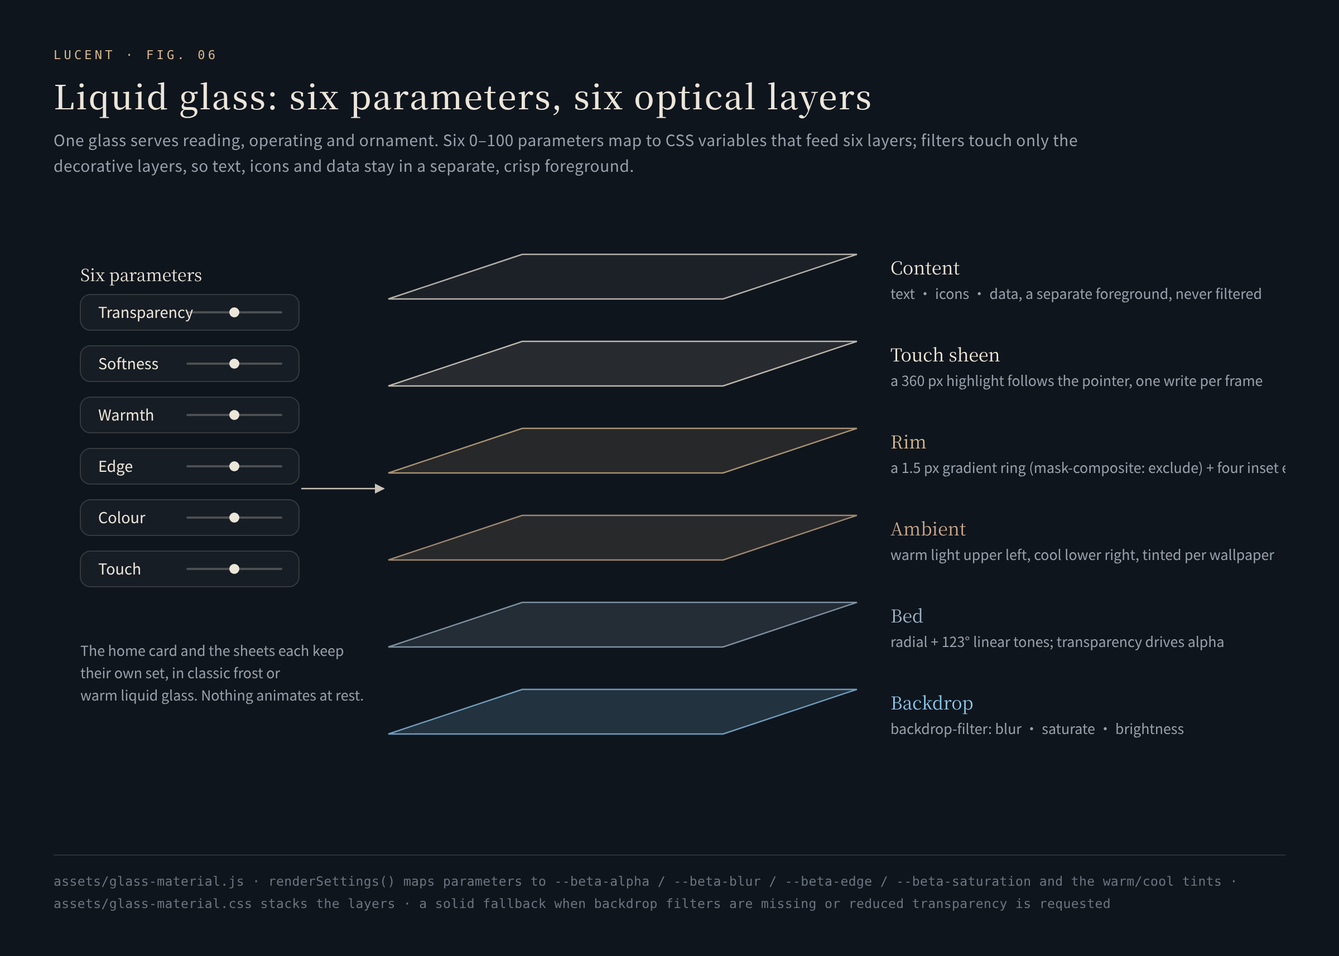
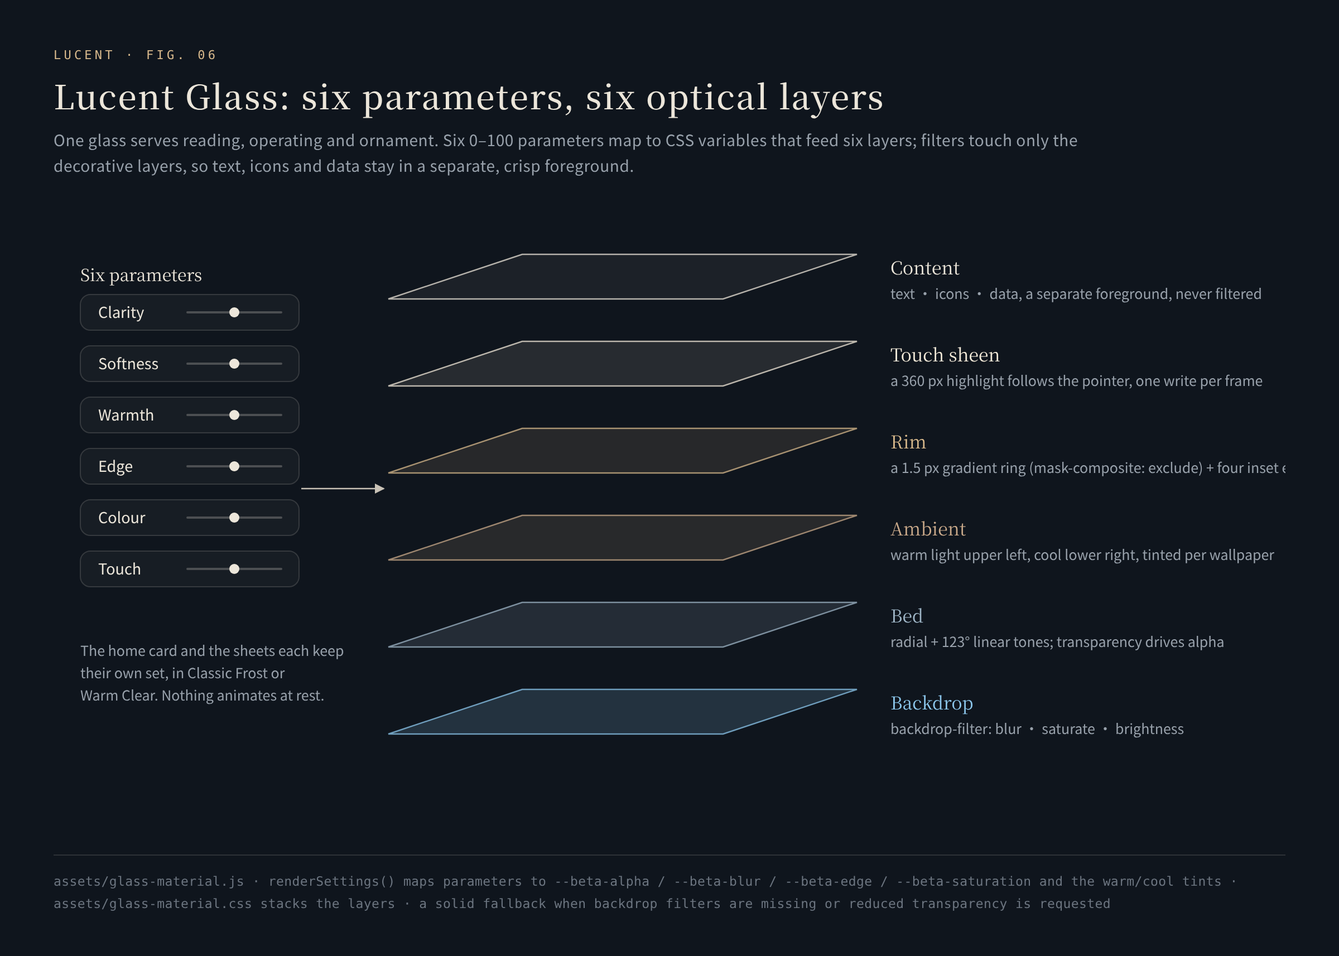
Docs: map the architecture and long presses; new captures, share card
- Fig 00, the product architecture: five layers from the screen down to
  the pixel (context, surface, systems, mechanisms, pixels), with
  control and trust running across them.
- Fig 08, the long-press map: every second-layer entry marked on the
  real interface.
- Glass figure uses the panel's own parameter names; Fig 04 and the
  architecture map call Random's beams lasers, as the code does.
- Two new rendered captures: focus mode, and the endless simulated
  launch (first shot flies back, then held-Enter bursts).
- The social card carries the new line, 由此出发，为光停留 / Launch from here.
  Stay for the light., and is now reproducible (scripts/og.mjs).

Changed region(s): [[0.0625, 0.0928, 0.6562, 0.1237], [0.0625, 0.6803, 0.25, 0.7421], [0.0625, 0.3092, 0.125, 0.3401]]

diff --git a/scripts/figures/figures.html b/scripts/figures/figures.html
@@ -209,9 +209,9 @@ const figures = {
   },
 
   speeds() {
-    const stage = header("04", t("电流的速度从哪里来", "Where the current's speed comes from"),
-      t("Random 开启后，蓝白电流沿卡片之间的通道奔跑。每一束的速度独立抽样：以 4.8.3 版为基准的截断正态分布 N(0.70, 0.10²)，超出 ±3σ 重抽。抽的是速度而不是时长，所以快慢在视觉上是对称的。",
-        "With Random on, blue-white current runs through the channels between cards. Each pulse samples its own speed from a normal distribution N(0.70, 0.10²) relative to version 4.8.3, redrawn beyond ±3σ. Speed, not duration, is sampled, so fast and slow feel symmetric."));
+    const stage = header("04", t("激光的速度从哪里来", "Where each laser's speed comes from"),
+      t("Random 开启后，蓝白激光沿卡片之间的通道奔跑。每一束的速度独立抽样：以 4.8.3 版为基准的截断正态分布 N(0.70, 0.10²)，超出 ±3σ 重抽。抽的是速度而不是时长，所以快慢在视觉上是对称的。",
+        "With Random on, blue-white lasers run through the channels between cards. Each pulse samples its own speed from a normal distribution N(0.70, 0.10²) relative to version 4.8.3, redrawn beyond ±3σ. Speed, not duration, is sampled, so fast and slow feel symmetric."));
     const width = 1104, height = 400, ctx = canvas(stage, width, height);
     const left = 70, right = width - 30, top = 30, bottom = height - 56;
     const x = v => left + (v - .4) / .6 * (right - left), pdf = v => Math.exp(-.5 * Math.pow((v - .7) / .1, 2));
@@ -304,7 +304,7 @@ Object.assign(figures, {
   },
 
   glass() {
-    const stage = header("06", t("通透玻璃：六个参数，六层光学", "Liquid glass: six parameters, six optical layers"),
+    const stage = header("06", t("通透玻璃：六个参数，六层光学", "Lucent Glass: six parameters, six optical layers"),
       t("同一种玻璃承担阅读、操作和装饰三种用途。六个 0–100 的参数先映射成 CSS 变量，再分配到六层；滤镜只作用在装饰层，文字、图标与数据始终在独立前景，清晰度不受影响。",
         "One glass serves reading, operating and ornament. Six 0–100 parameters map to CSS variables that feed six layers; filters touch only the decorative layers, so text, icons and data stay in a separate, crisp foreground."));
     const width = 1104, height = 560, g = svg(stage, width, height);
@@ -329,7 +329,7 @@ Object.assign(figures, {
       label(g, x + 450, y + 18, name, { size: 16, serif: true, fill: color });
       label(g, x + 450, y + 40, desc, { size: 12.5, fill: "#98a1ab" });
     });
-    const params = t(["透明度", "柔化", "冷暖", "边缘", "色彩", "触感"], ["Transparency", "Softness", "Warmth", "Edge", "Colour", "Touch"]);
+    const params = t(["通透度", "玻璃柔焦", "暖意", "边缘光泽", "环境色彩", "触光强度"], ["Clarity", "Softness", "Warmth", "Edge", "Colour", "Touch"]);
     label(g, 24, 64, t("六个参数", "Six parameters"), { size: 15, serif: true });
     params.forEach((p, i) => {
       const y = 96 + i * 46;
@@ -340,7 +340,7 @@ Object.assign(figures, {
     });
     el(g, "path", { d: "M222 250 C 262 250, 262 250, 296 250", fill: "none", stroke: "#c9c2b6", "stroke-width": 1.3, "marker-end": "url(#arrow)" });
     multiline(g, 24, 400, t(["主卡片与弹窗各自一套参数，", "可选「经典磨砂」或「暖光液态清璃」。", "静止时没有任何常驻动画循环。"],
-      ["The home card and the sheets each keep", "their own set, in classic frost or", "warm liquid glass. Nothing animates at rest."]), { size: 12.5, fill: "#98a1ab", lh: 20 });
+      ["The home card and the sheets each keep", "their own set, in Classic Frost or", "Warm Clear. Nothing animates at rest."]), { size: 12.5, fill: "#98a1ab", lh: 20 });
     footer(t("assets/glass-material.js · renderSettings() 把参数映射为 --beta-alpha / --beta-blur / --beta-edge / --beta-saturation 与冷暖色 · assets/glass-material.css 负责分层 · 不支持背景滤镜或「减少透明度」时退回到实底",
              "assets/glass-material.js · renderSettings() maps parameters to --beta-alpha / --beta-blur / --beta-edge / --beta-saturation and the warm/cool tints · assets/glass-material.css stacks the layers · a solid fallback when backdrop filters are missing or reduced transparency is requested"));
   },
@@ -413,6 +413,170 @@ Object.assign(figures, {
     ]), { size: 12.5, fill: "#ece6da", lh: 22 });
     footer(t("assets/stats-store.js · assets/field-store.js · 备份文本 AIRAPC1：deflate-raw 压缩 → base64url → CRC-32，复制前按同一格式回读自检，超长时按段切分",
              "assets/stats-store.js · assets/field-store.js · the AIRAPC1 backup text is deflate-raw → base64url → CRC-32, read back in the same format before copying, and segmented when long"));
+  }
+});
+
+// ---- architecture & gesture map ----
+function hexA(hex, a) { const n = parseInt(hex.slice(1), 16); return `rgba(${n >> 16 & 255},${n >> 8 & 255},${n & 255},${a})`; }
+function box(g, x, y, w, h, color, title, latin, lines, opts = {}) {
+  el(g, "rect", { x, y, width: w, height: h, rx: 13, fill: hexA(color, opts.fill || .055), stroke: hexA(color, opts.stroke || .5), "stroke-width": 1.2 });
+  const t0 = label(g, x + 16, y + 28, title, { size: opts.titleSize || 16, serif: true, fill: opts.titleFill || "#ece6da" });
+  if (latin) label(g, x + 16 + t0.getComputedTextLength() + 10, y + 28, latin, { size: 11, mono: true, fill: color, spacing: .6 });
+  multiline(g, x + 16, y + (opts.first || 52), lines, { size: opts.size || 12.5, fill: opts.lineFill || "#a9b1ba", lh: opts.lh || 19 });
+}
+function chip(g, x, y, w, text, color) {
+  el(g, "rect", { x, y, width: w, height: 34, rx: 17, fill: hexA(color, .07), stroke: hexA(color, .42), "stroke-width": 1 });
+  label(g, x + w / 2, y + 22, text, { size: 12.5, fill: "#e6dccb", anchor: "middle" });
+}
+
+Object.assign(figures, {
+  architecture() {
+    const stage = header("00", t("产品架构：从一块屏幕，到一个像素", "Architecture: from one screen to one pixel"),
+      t("自上而下，由宏观到微观：它在哪里运行，表面摆着什么，底下运转着哪四套系统，系统靠什么机制成立，以及最后落到像素的那些决定。最下面一行贯穿所有层级：把每个旋钮交给使用者的主权，和让一切经得起长期使用的工程纪律。",
+        "Top to bottom, macro to micro: where it runs, what sits on the surface, the four systems underneath, the mechanisms that make them work, and the decisions that finally land on a pixel. The bottom row cuts across every layer: the controls handed to the person who uses it, and the engineering discipline that keeps it trustworthy over years."));
+    const W0 = 1104, LX = 152, CW = W0 - LX, g = svg(stage, W0, 812);
+    const ice = "#8cc7ec", blue = "#a3b8ff", plat = "#d3c5a2", warm = "#e8be94", gold = "#d8b98c", grey = "#c9c2b6", mute = "#98a1ab", mint = "#93cdb5";
+    const tiers = [
+      ["L0", t("场景", "Context"), t("在哪里运行", "where it runs"), 6, 86],
+      ["L1", t("基地", "Base"), t("表面", "the surface"), 108, 106],
+      ["L2", t("系统", "Systems"), t("底下的四套", "four underneath"), 230, 68],
+      ["L3", t("机制", "Mechanisms"), t("为什么成立", "why it works"), 314, 196],
+      ["L4", t("像素", "Pixels"), t("最后的决定", "final decisions"), 526, 100]
+    ];
+    // spine: macro → micro
+    const spine = el(g, "defs", {});
+    spine.innerHTML = `<linearGradient id="spine" gradientUnits="userSpaceOnUse" x1="0" y1="16" x2="0" y2="618"><stop offset="0" stop-color="${ice}"/><stop offset="1" stop-color="${gold}"/></linearGradient>`;
+    el(g, "line", { x1: 10, y1: 16, x2: 10, y2: 618, stroke: "url(#spine)", "stroke-width": 2, "stroke-linecap": "round" });
+    el(g, "path", { d: "M4 610 L10 624 L16 610", fill: "none", stroke: gold, "stroke-width": 2, "stroke-linejoin": "round" });
+    tiers.forEach(([n, name, hint, y, h]) => {
+      el(g, "circle", { cx: 10, cy: y + 26, r: 4.5, fill: "#0f151d", stroke: "#ece6da", "stroke-width": 1.4 });
+      label(g, 26, y + 22, n, { size: 11, mono: true, fill: gold, spacing: 1 });
+      label(g, 26, y + 46, name, { size: 18, serif: true });
+      label(g, 26, y + 66, hint, { size: 11.5, fill: mute });
+    });
+    const cols = (n, gap) => { const w = (CW - gap * (n - 1)) / n; return Array.from({ length: n }, (_, i) => LX + i * (w + gap)).map(x => [x, w]); };
+    // L0
+    const c3 = cols(3, 12);
+    box(g, c3[0][0], 6, c3[0][1], 86, mute, t("一块屏幕", "One screen"), "screen", t(["MatePad Edge · 14.2″ 3:2 OLED", "3120×2080 → 1560×1040 CSS · 触屏优先"], ["MatePad Edge · 14.2″ 3:2 OLED", "3120×2080 → 1560×1040 CSS · touch first"]));
+    box(g, c3[1][0], 6, c3[1][1], 86, mute, t("宿主", "Host"), "host", t(["鸿蒙 Aira 浏览器的自定义主页", "原生安装包按交付原样保存"], ["custom homepage of the Aira browser", "on HarmonyOS; native package kept as shipped"]));
+    box(g, c3[2][0], 6, c3[2][1], 86, mute, t("网页版", "Web edition"), "web", t(["浏览器演示层 · 一键直达链接", "沉浸全屏 · 可安装为应用"], ["browser layer · deep links", "immersive full screen · installable"]));
+    // L1
+    box(g, c3[0][0], 108, c3[0][1], 106, grey, t("顶栏", "Top bar"), "top bar", t(["时钟与问候 · 搜索 · 全部标签", "隐私模式 · 切换", "FSD · 星球 · 扫一扫 · 太阳"], ["clock & greeting · Search · All tabs", "Private · Switch", "FSD · planet · scan · sun"]));
+    box(g, c3[1][0], 108, c3[1][1], 106, grey, t("名片", "Profile"), "profile", t(["头像光环 · 名字流光 · 状态", "签名 · 徽章 · 标签"], ["avatar ring · gradient name · status", "signature · badges · tags"]));
+    box(g, c3[2][0], 108, c3[2][1], 106, grey, t("主卡片", "Main card"), "card", t(["搜索框 · 搜索引擎 · 快捷方式", "直达 · 日志 · 历史记录"], ["search · engines · shortcuts", "direct entries · note · history"]));
+    // L2 + L3 in four aligned columns
+    const c4 = cols(4, 12);
+    const systems = [
+      [ice, t("生态", "Alive"), "lueurs", t(["小浮光 Lueurs · 场志"], ["Lueurs · the chronicle"]),
+        t(["Ornstein–Uhlenbeck 航向", "4 px 子步进 · 冲量 e = 0.64", "FSD：广度优先寻路 · 四状态", "邂逅：150 px 圈 · 70% 立案", "落子：只罚沙漠与拥挤", "拖动 → 势场 Φ → 壁纸权重", "49 位身份 · 关系谱 · 事件环", "双槽校验 · 分层压缩"],
+          ["Ornstein–Uhlenbeck heading", "4 px sub-steps · impulse e = 0.64", "FSD: breadth-first routes", "encounters: 150 px · 70%", "placement punishes deserts", "drag → potential Φ → odds", "49 identities · relationships", "two slots · tiered compaction"])],
+      [blue, t("发射", "Launch"), "lightline", t(["念起，光行 · 六式"], ["A thought, in flight · six"]),
+        t(["渲染器 = 进度 t 的纯函数", "可慢放 0.35×，也可倒放", "按字形簇切分（Intl.Segmenter）", "量真实字体、字距与滚动", "输入法组字时不触发", "光抵达箭头，才真正导航", "一次性出发计时器兜底", "返回时输入框干净如初"],
+          ["renderer = pure function of t", "slow to 0.35×, or reverse", "graphemes via Intl.Segmenter", "measures the real font & scroll", "IME composition never fires", "navigates only on arrival", "a once-only dispatch timer", "a clean field on return"])],
+      [plat, t("闭环", "Loop"), "recharge", t(["模拟发射 · Random 激光"], ["Simulated launch · Random"]),
+        t(["首发沿原路倒放回弹", "按住 Enter：160 ms 连发", "需求只记一个比特", "键盘自动重复去抖 80 ms", "激光速度：截断正态 N(0.70, 0.1²)", "车道按权重不放回抽取", "开场三束同时出发", "页面隐藏即暂停排班"],
+          ["first shot flies back", "hold Enter: 160 ms bursts", "demand is a single bit", "80 ms debounce for auto-repeat", "speed ~ truncated N(0.70, 0.1²)", "weighted lanes, no replacement", "a three-beam opening", "paused while hidden"])],
+      [warm, t("材质", "Material"), "lucent glass", t(["通透玻璃 · 两种玻璃"], ["Lucent Glass · two finishes"]),
+        t(["六个参数 → CSS 变量", "六层：采样 · 底色 · 冷暖", "　　　边缘 · 高光 · 前景", "高光按帧合并，只写一次", "静止时零动画循环", "主卡片与弹窗各一套", "无背景滤镜 → 实底退路", "减少透明度 / 动态 → 退路"],
+          ["six parameters → CSS variables", "six layers: backdrop · bed ·", "ambient · rim · sheen · content", "highlight coalesced per frame", "zero animation loops at rest", "card and sheets tuned apart", "no backdrop filter → solid", "reduced transparency → solid"])]
+    ];
+    systems.forEach(([color, name, latin, sub, mech], i) => {
+      const [x, w] = c4[i];
+      box(g, x, 230, w, 68, color, name, latin, sub, { first: 52 });
+      el(g, "line", { x1: x + w / 2, y1: 298, x2: x + w / 2, y2: 314, stroke: hexA(color, .6), "stroke-width": 1.2 });
+      el(g, "rect", { x, y: 314, width: w, height: 196, rx: 13, fill: hexA(color, .035), stroke: hexA(color, .3), "stroke-width": 1, "stroke-dasharray": "3 4" });
+      multiline(g, x + 14, 340, mech, { size: 12.5, fill: "#b7bec6", lh: 21 });
+    });
+    // L4 pixels
+    el(g, "rect", { x: LX, y: 526, width: CW, height: 100, rx: 13, fill: hexA(gold, .035), stroke: hexA(gold, .3), "stroke-width": 1 });
+    const pix = t(["浮光 22 px · 圆角 7/3/8/3 · −24°", "星球光环倾斜 23.5°", "编号 8.5 px · 0.45 · −7°", "历史标签框体 skewX −14°",
+                   "唯一的蓝 #0A59F7", "落款金 #CBAE60", "「68 : 32」18 px · 520 · 斜体", "每款动效 320–480 ms"],
+                  ["Lueur 22 px · radii 7/3/8/3 · −24°", "planet ring tilted 23.5°", "numbers 8.5 px · 0.45 · −7°", "history frame skewX −14°",
+                   "one blue: #0A59F7", "signature gold #CBAE60", "“68 : 32” 18 px · 520 · italic", "each motion 320–480 ms"]);
+    const pw = (CW - 24 - 3 * 10) / 4;
+    pix.forEach((text, i) => chip(g, LX + 12 + (i % 4) * (pw + 10), 538 + Math.floor(i / 4) * 44, pw, text, gold));
+    // cross-cutting
+    label(g, 26, 676, t("贯穿", "Across"), { size: 18, serif: true });
+    label(g, 26, 696, t("所有层级", "all layers"), { size: 11.5, fill: mute });
+    const c2 = cols(2, 12);
+    box(g, c2[0][0], 652, c2[0][1], 152, gold, t("主权", "Yours"), "control", t(["三层默认：当前 · 自定义 · 出厂", "玻璃：主卡片 / 弹窗 × 两种 × 六个参数", "壁纸：柔焦 · 亮度 · 取景 · 加权随机", "浮光：数量 · 力度 · pace · 主图比例", "第二层：每个入口都有长按 · 键盘等价"],
+      ["three layers of defaults: now · yours · factory", "glass: card / sheets × two finishes × six dials", "wallpaper: soft focus · brightness · framing · odds", "Lueurs: count · strength · pace · Light/Dark odds", "a second layer: long press everywhere, keyboard too"]), { lh: 19.5 });
+    box(g, c2[1][0], 652, c2[1][1], 152, mint, t("可信", "Trust"), "discipline", t(["数据只在本机 · 加载后零网络请求", "双槽校验快照 · 复制前自检的备份文本", "迁移保总量 · 写入守形状 · 读失败不清空", "方向键移动浮光 · 尊重减少动态与透明度", "41 项单元测试 · 17 组浏览器流程 · CI"],
+      ["data stays on the device · no requests after load", "checksummed two-slot snapshots · self-verifying backup", "migrations keep totals · writes guard their shape", "arrow keys move Lueurs · reduced motion respected", "41 unit tests · 17 browser flows · CI"]), { lh: 19.5 });
+    footer(t("完整清单见 docs/architecture.md：每一层的每一个功能，都对应到源码中的位置。",
+             "The full inventory is in docs/en/architecture.md: every function on every layer, traced to its place in the source."));
+  },
+
+  gestures() {
+    const stage = header("08", t("第二层：表面之下，每个入口都能长按", "The second layer: press and hold"),
+      t("表面只放每天用得到的东西，深度收进长按。下面标出了这张主页上全部的第二层入口；键盘上，Shift+Enter、菜单键或 Shift+F10 与长按等价。",
+        "The surface keeps only what you use every day; depth lives under a long press. Every second-layer entry on the base is marked below. On a keyboard, Shift+Enter, the menu key or Shift+F10 equals a long press."));
+    const W0 = 1104, S = W0 / 1560, H0 = 1040 * S;
+    const wrap = document.createElement("div");
+    wrap.style.cssText = `position:relative;width:${W0}px;height:${H0}px;border-radius:14px;overflow:hidden;`;
+    wrap.innerHTML = `<img src="../../docs/images/hero.jpg" style="position:absolute;inset:0;width:100%;height:100%;filter:saturate(.85) brightness(.62)">`;
+    stage.appendChild(wrap);
+    const g = document.createElementNS(NS, "svg");
+    g.setAttribute("viewBox", `0 0 ${W0} ${H0}`); g.setAttribute("width", W0); g.setAttribute("height", H0);
+    g.style.cssText = "position:absolute;inset:0";
+    wrap.appendChild(g);
+    // where the Lueurs live
+    const poly = geometry.polygon.map(p => `${(p.x * S).toFixed(1)},${(p.y * S).toFixed(1)}`).join(" ");
+    el(g, "polygon", { points: poly, fill: "rgba(140,199,236,.07)", stroke: "rgba(140,199,236,.75)", "stroke-width": 1.3, "stroke-dasharray": "5 5" });
+    const gold = "#e8c98f";
+    // Rings around the controls (CSS px at 1560×1040), then numbered markers with leader lines.
+    [[766, 32, 85, 42], [1222, 33, 40, 40], [1271, 33, 40, 40], [1320, 33, 40, 40], [1170, 33, 40, 40], [633, 558, 84, 97],
+     [1247, 786, 136, 34], [676, 331, 599, 50], [1292, 516, 28, 28], [1292, 681, 28, 28], [1274, 402, 46, 24]]
+      .forEach(([x, y, w, h]) => el(g, "rect", { x: x * S - 3, y: y * S - 3, width: w * S + 6, height: h * S + 6, rx: 8, fill: "none", stroke: "rgba(232,201,143,.85)", "stroke-width": 1.4 }));
+    const marks = [
+      [1, [[808, 77]], 808, 112], [2, [[1242, 76]], 1242, 112], [3, [[1291, 76]], 1291, 112], [4, [[1340, 76]], 1340, 112], [5, [[1190, 76]], 1190, 112],
+      [6, [[630, 606]], 585, 606], [7, [[1315, 823]], 1315, 860], [8, [[673, 356]], 640, 356],
+      [9, [[1324, 530], [1324, 695]], 1392, 612], [10, [[1324, 414]], 1392, 414], [11, [], 330, 250]
+    ];
+    marks.forEach(([n, anchors, mx, my]) => {
+      anchors.forEach(([ax, ay]) => el(g, "line", { x1: ax * S, y1: ay * S, x2: mx * S, y2: my * S, stroke: "rgba(232,201,143,.7)", "stroke-width": 1 }));
+      el(g, "circle", { cx: mx * S, cy: my * S, r: 12, fill: "#121a26", stroke: gold, "stroke-width": 1.5 });
+      label(g, mx * S, my * S + 4.5, String(n), { size: 12.5, mono: true, fill: gold, anchor: "middle", weight: 600 });
+    });
+    label(g, 352 * S, 255 * S, t("浮光栖居的留白", "where the Lueurs live"), { size: 12.5, fill: "rgba(170,215,240,.95)" });
+    // legend
+    const items = t([
+      ["切换", "轻点：Light → Dark → 随机", "长按：壁纸与玻璃 · 柔焦、亮度、取景、两种玻璃 × 六个参数"],
+      ["星球", "轻点：添一枚浮光，唤出 FSD", "长按：代号：交互 · 数量、力度、pace、比例、统计、默认值"],
+      ["扫一扫", "轻点：系统扫码", "长按：备份与导出 · 一段自检的备份文本"],
+      ["太阳", "轻点：设置中心", "长按：关于 · 产品自述与亲笔落款"],
+      ["FSD", "轻点三态：淡蓝巡航 → 暖橙增强 → 关闭", "4.25 秒不点，自己淡出"],
+      ["快捷方式", "长按：图标 · 三种形态 × 28 种底色", "「排序」之后：长按拖动换位"],
+      ["日志", "长按：签名日志 · 每一句按秒留档", ""],
+      ["搜索框", "开启「无限模拟发射」后：回车只发射光", "按住回车：连发；首发会沿原路回弹"],
+      ["折叠", "两段都折叠：专注态", "卡片下沉到视觉中心，搜索成为焦点"],
+      ["✧ 理", "轻点：念起，光行 · 六式、Random、模拟发射", "也是搜索引擎设置的入口"],
+      ["浮光", "拨动、拖动、推挤；方向键移动", "抓住一枚，它的编号才会浮现"]
+    ], [
+      ["Switch", "tap: Light → Dark → random", "hold: wallpaper & glass · soft focus, brightness, framing, 2 finishes × 6 dials"],
+      ["Planet", "tap: add a Lueur, summon FSD", "hold: the Interaction panel · count, strength, pace, odds, stats, defaults"],
+      ["Scan", "tap: the system scanner", "hold: backup & export · one self-verifying text"],
+      ["Sun", "tap: settings", "hold: About · the product in two paragraphs, signed"],
+      ["FSD", "tap: pale-blue cruise → orange boost → off", "fades by itself after 4.25 s"],
+      ["Shortcut", "hold: icon editor · 3 forms × 28 colours", "after 排序 (sort): hold to drag"],
+      ["Note", "hold: the note log · every line kept to the second", ""],
+      ["Search", "with endless simulation on: Enter launches light only", "hold Enter: bursts; the first shot flies back"],
+      ["Folds", "fold both sections: focus mode", "the card sinks to centre; search takes the stage"],
+      ["✧ 理", "tap: A thought, in flight · six motions, Random, simulation", "also the way to search-engine settings"],
+      ["Lueurs", "flick, drag, shove; arrow keys move them", "hold one and its number surfaces"]
+    ]);
+    const legend = svg(stage, W0, 392, 0);
+    legend.style.marginTop = "18px";
+    items.forEach(([name, a, b], i) => {
+      const col = i < 6 ? 0 : 1, row = i < 6 ? i : i - 6, x = col * 556, y = row * 64 + 8;
+      el(legend, "circle", { cx: x + 14, cy: y + 14, r: 11, fill: "#121a26", stroke: gold, "stroke-width": 1.4 });
+      label(legend, x + 14, y + 18.5, String(i + 1), { size: 12, mono: true, fill: gold, anchor: "middle", weight: 600 });
+      label(legend, x + 36, y + 19, name, { size: 15, serif: true });
+      label(legend, x + 36, y + 40, a, { size: 12.5, fill: "#c9c2b6" });
+      if (b) label(legend, x + 36, y + 58, b, { size: 12, fill: "#98a1ab" });
+    });
+    footer(t("截图为 1560×1040 的参考视口（MatePad Edge 横屏）。长按阈值：顶栏与日志 480 ms，快捷方式 430 ms，排序模式下 240 ms。",
+             "Screenshot at the 1560×1040 reference viewport (MatePad Edge, landscape). Hold thresholds: 480 ms for the top bar and the note, 430 ms for shortcuts, 240 ms while sorting."));
   }
 });
 

diff --git a/scripts/og/og.html b/scripts/og/og.html
@@ -1,0 +1,24 @@
+<!doctype html>
+<!-- Lucent · 灵感台 — social preview (web/og.jpg), rendered by scripts/og.mjs at 1280×640.
+     The picture is the product's own hero capture; only the mark and the tagline are set here.
+     Type: Inter, Lora and Noto Serif CJK SC, as installed on the rendering machine. -->
+<html lang="zh-CN"><head><meta charset="utf-8">
+<style>
+  html, body { margin: 0; width: 1280px; height: 640px; overflow: hidden; background: #0b111a; }
+  .shot { position: absolute; left: 0; top: -74px; width: 1280px; height: auto; }
+  .shade { position: absolute; inset: 0;
+    background:
+      linear-gradient(0deg, rgba(6, 9, 15, .82) 0%, rgba(6, 9, 15, .55) 17%, rgba(6, 9, 15, 0) 40%),
+      radial-gradient(120% 90% at 50% 40%, rgba(0, 0, 0, 0) 60%, rgba(4, 7, 12, .35) 100%); }
+  .mark { position: absolute; left: 56px; bottom: 74px; display: flex; align-items: center; gap: 20px; color: #F4F1EA; }
+  .mark strong { font: 400 34px/1 "Inter", sans-serif; letter-spacing: 9px; }
+  .mark span { border-left: 1px solid rgba(244, 241, 234, .38); padding-left: 20px; font: 400 17px/1 "Noto Serif CJK SC", serif; letter-spacing: 6px; color: rgba(244, 241, 234, .82); }
+  .line { position: absolute; left: 58px; bottom: 40px; font: 400 15px/1 "Noto Serif CJK SC", serif; letter-spacing: 3px; color: rgba(244, 241, 234, .72); }
+  .line em { font: italic 400 15px/1 "Lora", Georgia, serif; letter-spacing: .5px; margin-left: 14px; color: rgba(244, 241, 234, .56); }
+</style></head>
+<body>
+  <img class="shot" src="../../docs/images/hero.jpg" alt="">
+  <div class="shade"></div>
+  <div class="mark"><strong>LUCENT</strong><span>灵感台</span></div>
+  <div class="line">由此出发，为光停留。<em>Launch from here. Stay for the light.</em></div>
+</body></html>
